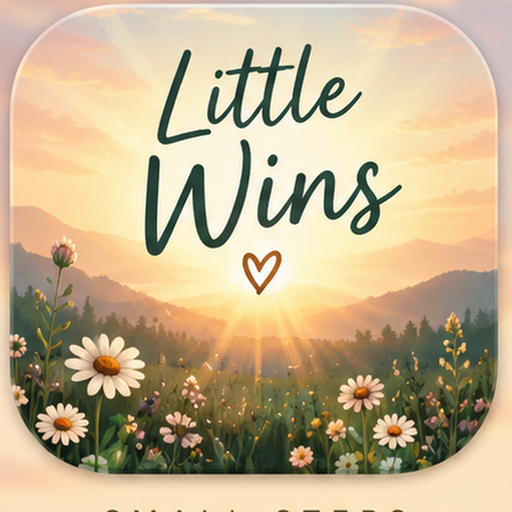
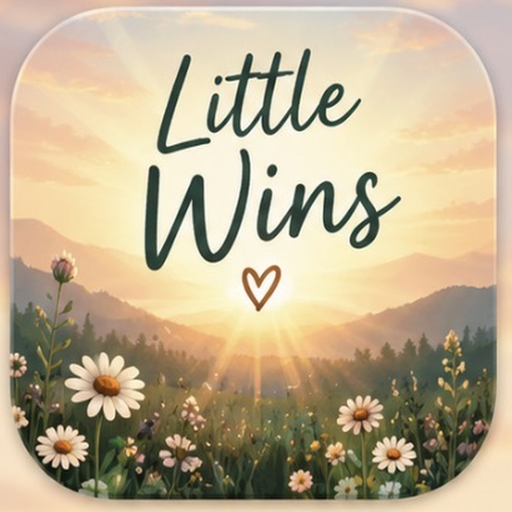
Add files via upload

diff --git a/index.html b/index.html
@@ -120,6 +120,84 @@ border-radius:16px;padding:12px 14px;margin-top:12px;font-weight:750;border-left
  header{min-height:250px}
 }
 </style>
+
+<style id="v71-polish">
+:root{
+ --sage:#6f9483; --sage2:#dce9df; --cream:#fffaf1; --peach:#f3d2c4;
+ --gold:#e8b95d; --blue:#8fb8d2; --lav:#a89ac8; --ink:#28483f;
+ --muted:#6d756f; --line:rgba(72,83,75,.12);
+}
+body{
+ background:
+  linear-gradient(rgba(255,250,243,.74),rgba(247,242,234,.95) 620px),
+  url('little-wins-sunrise.jpg') center top/cover fixed no-repeat;
+}
+.app{max-width:760px}
+header{
+ min-height:255px;
+ background:
+  linear-gradient(180deg,rgba(255,255,255,.06),rgba(255,250,242,.30) 58%,rgba(255,250,242,.88)),
+  url('little-wins-sunrise.jpg') center 46%/cover no-repeat;
+ border-radius:30px;
+ padding:22px 24px 20px;
+}
+header h1{
+ font-family:"Snell Roundhand","Segoe Script","Brush Script MT",cursive;
+ font-size:44px;font-weight:500;line-height:1;color:#28554b;
+ letter-spacing:-1px;text-shadow:0 1px 8px rgba(255,255,255,.75)
+}
+header .sub{font-size:17px;color:#294b42;line-height:1.35}
+.heroquote{
+ align-self:stretch;text-align:center;font-family:"Snell Roundhand","Segoe Script","Brush Script MT",cursive;
+ font-size:21px;font-weight:500;color:#31584f;border-left:0;
+ background:rgba(255,250,241,.90);border:1px solid rgba(255,255,255,.75);
+ box-shadow:0 5px 20px rgba(69,55,42,.08);padding:10px 16px;margin-top:12px
+}
+.card{
+ background:rgba(255,252,247,.91);
+ backdrop-filter:blur(9px);-webkit-backdrop-filter:blur(9px);
+ border:1px solid rgba(255,255,255,.72);border-radius:25px;
+ box-shadow:0 8px 24px rgba(73,60,48,.08)
+}
+.card h2{color:#31584f}
+.shortcutgrid{grid-template-columns:repeat(3,1fr);gap:14px}
+.shortcut{
+ min-height:102px;background:transparent;border:0;box-shadow:none;
+ font-size:13px;color:#4e554f
+}
+.shortcut .ico{
+ width:56px;height:56px;border-radius:50%;display:flex;align-items:center;justify-content:center;
+ font-size:28px;color:white;border:2px solid rgba(255,255,255,.9);
+ box-shadow:0 4px 12px rgba(70,60,50,.10)
+}
+.shortcut:nth-child(1) .ico{background:#7da58e}
+.shortcut:nth-child(2) .ico{background:#e99089}
+.shortcut:nth-child(3) .ico{background:#8db7d1}
+.shortcut:nth-child(4) .ico{background:#7da58e}
+.shortcut:nth-child(5) .ico{background:#e9b65d}
+.shortcut:nth-child(6) .ico{background:#a79ac7}
+.survival{background:linear-gradient(135deg,rgba(255,245,232,.94),rgba(255,252,247,.94))}
+.nextwin{background:linear-gradient(135deg,rgba(237,246,239,.95),rgba(255,246,232,.95))}
+.task,.completedrow{border-radius:17px}
+button.primary,.donebtn{background:#79a56f!important;color:white!important;border-color:#79a56f!important}
+.deferbtn{background:#f7efe6!important}
+nav{background:rgba(255,252,247,.92);backdrop-filter:blur(12px);-webkit-backdrop-filter:blur(12px)}
+nav label{color:#657069}
+nav label:has(input:checked){color:#31584f}
+#completedToday .completedrow{background:rgba(247,250,246,.84)}
+.weekwins{text-align:center;padding:6px 0 10px;color:#6c7b70}
+@media(max-width:700px){
+ .app{padding:10px 12px 105px}
+ header{min-height:220px;border-radius:25px;padding:18px}
+ header h1{font-size:39px}
+ .heroquote{font-size:19px}
+ .shortcutgrid{grid-template-columns:repeat(3,1fr);gap:6px}
+ .shortcut{min-height:86px}
+ .shortcut .ico{width:50px;height:50px;font-size:25px}
+ .card{border-radius:22px}
+}
+</style>
+
 </head>
 <body>
 <input class="navradio" type="radio" name="nav" id="navToday" checked>
@@ -129,7 +207,7 @@ border-radius:16px;padding:12px 14px;margin-top:12px;font-weight:750;border-left
 <input class="navradio" type="radio" name="nav" id="navLists">
 <div class="app">
 <header>
- <div class="tiny">Little Wins V7</div>
+ <div class="tiny">Little Wins V7.1</div>
  <h1>Little Wins 💛</h1>
  <div class="sub"><b>You do not have to do it all today.</b><br>Just make the next thing a little easier.</div>
  <div class="heroquote" id="message"></div>

diff --git a/service-worker.js b/service-worker.js
@@ -1,18 +1,8 @@
-const CACHE='little-wins-v7';
+const CACHE='little-wins-v7-1';
 const ASSETS=['./','./index.html','./manifest.webmanifest','./icon-192.png','./icon-512.png','./little-wins-sunrise.jpg'];
 self.addEventListener('install',e=>{e.waitUntil(caches.open(CACHE).then(c=>c.addAll(ASSETS)));self.skipWaiting();});
-self.addEventListener('activate',e=>{e.waitUntil(Promise.all([
- caches.keys().then(keys=>Promise.all(keys.filter(k=>k!==CACHE).map(k=>caches.delete(k)))),
- self.clients.claim()
-]));});
+self.addEventListener('activate',e=>{e.waitUntil(Promise.all([caches.keys().then(keys=>Promise.all(keys.filter(k=>k!==CACHE).map(k=>caches.delete(k)))),self.clients.claim()]));});
 self.addEventListener('fetch',e=>{
- if(e.request.mode==='navigate'){
-  e.respondWith(fetch(e.request).then(r=>{
-   const copy=r.clone();caches.open(CACHE).then(c=>c.put('./index.html',copy));return r;
-  }).catch(()=>caches.match('./index.html')));
-  return;
- }
- e.respondWith(caches.match(e.request).then(r=>r||fetch(e.request).then(resp=>{
-  const copy=resp.clone();caches.open(CACHE).then(c=>c.put(e.request,copy));return resp;
- })));
+ if(e.request.mode==='navigate'){e.respondWith(fetch(e.request).then(r=>{const copy=r.clone();caches.open(CACHE).then(c=>c.put('./index.html',copy));return r;}).catch(()=>caches.match('./index.html')));return;}
+ e.respondWith(caches.match(e.request).then(r=>r||fetch(e.request)));
 });
